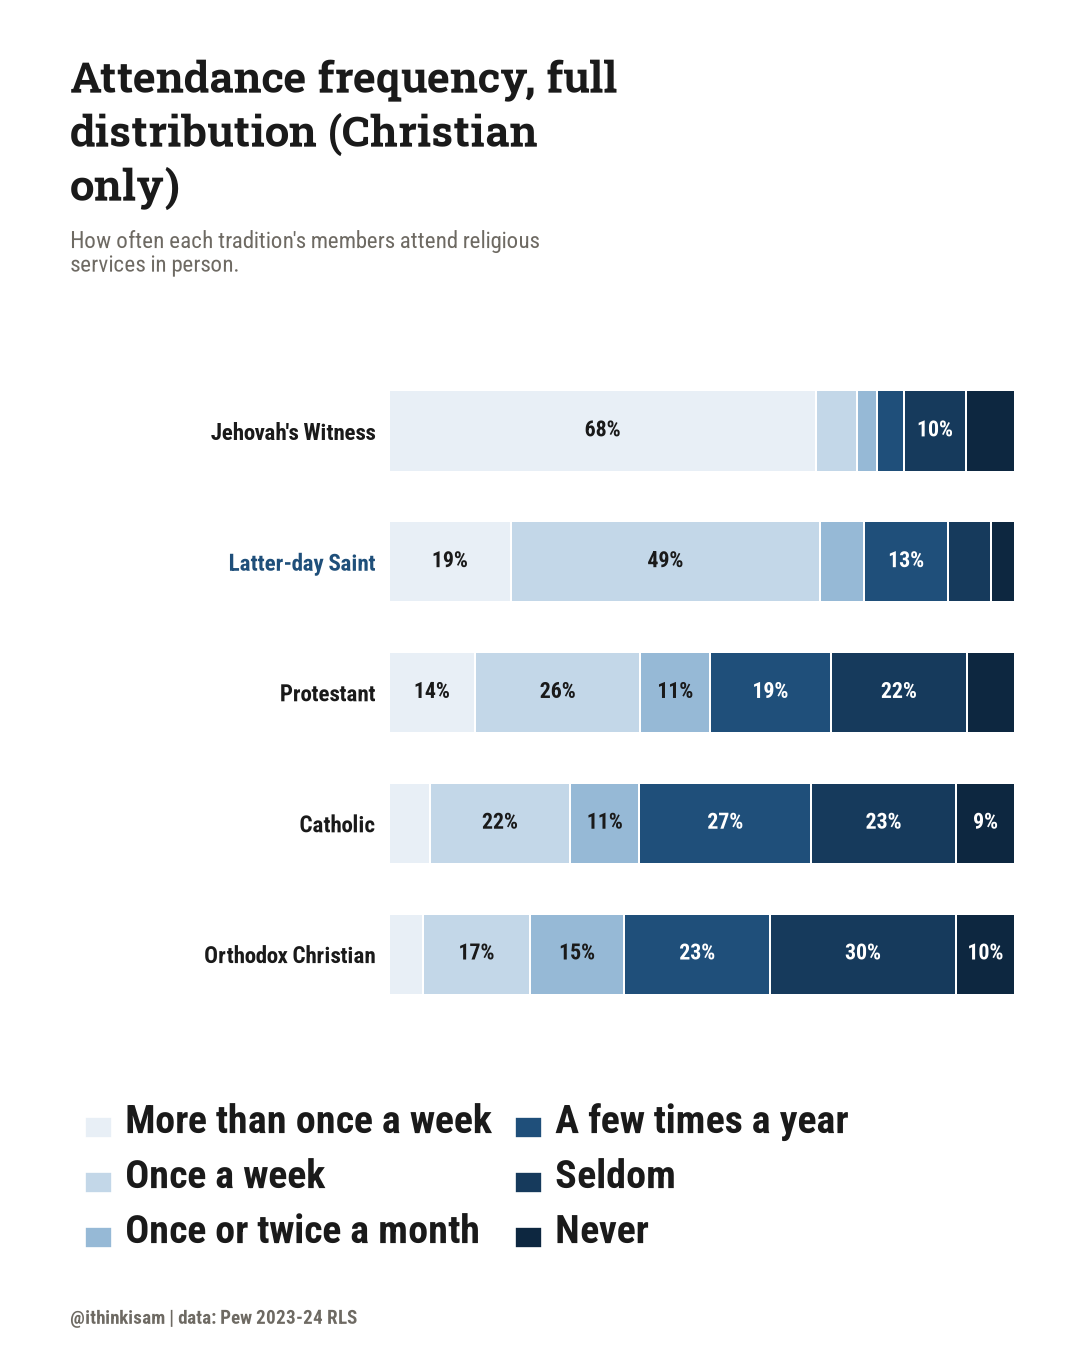
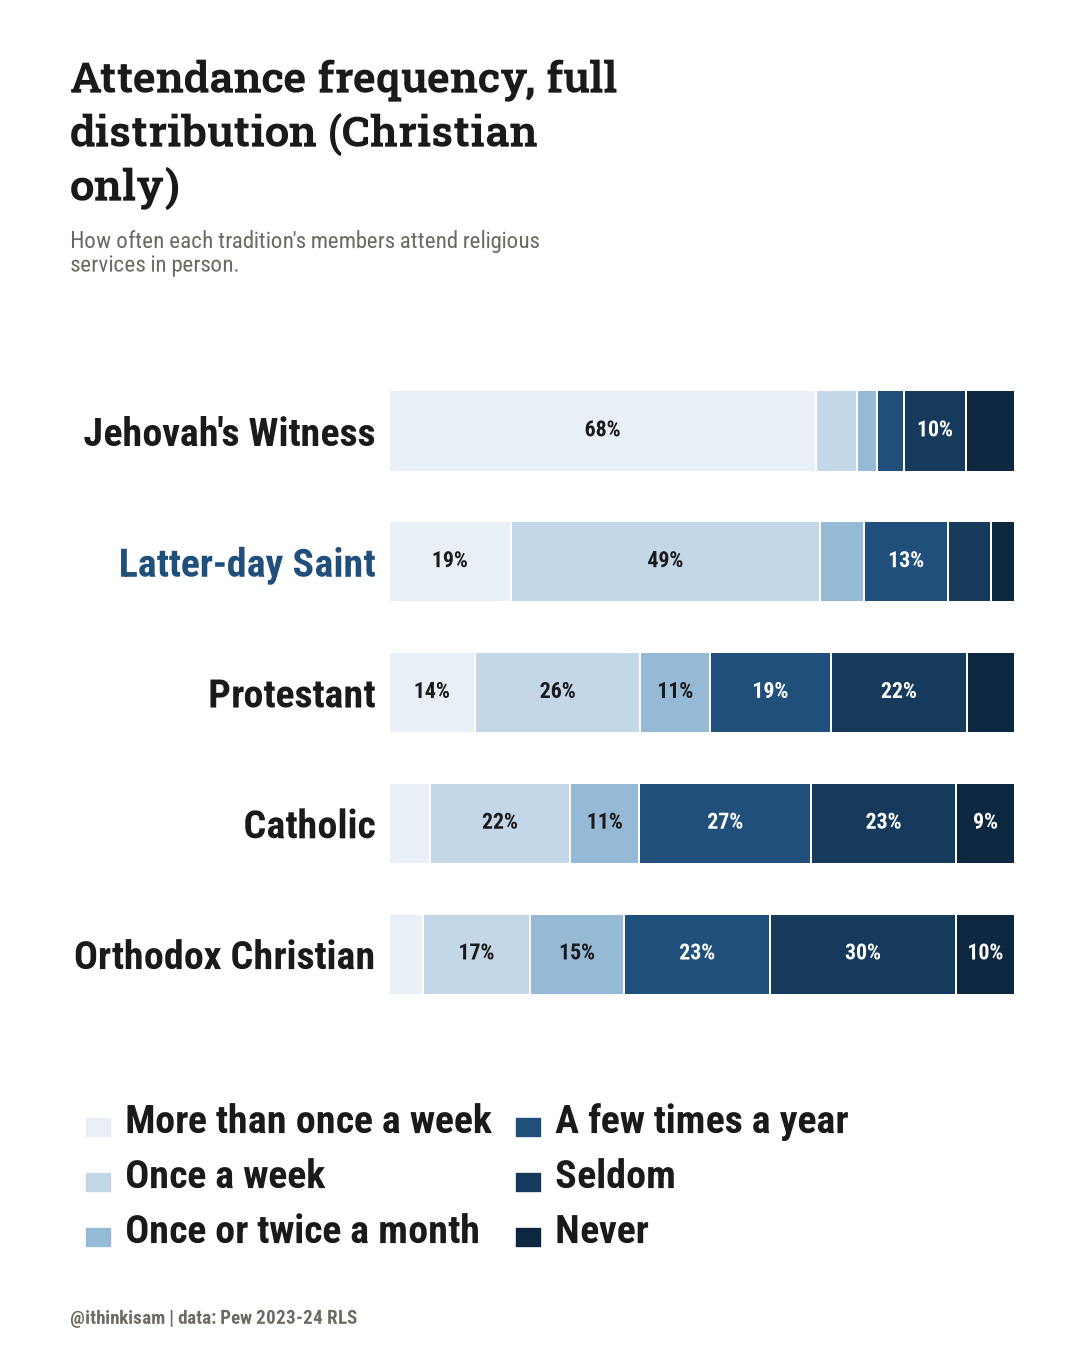
Match group-label size to the legend key on the attendance distribution chart
render_distribution_stack gets an optional group_label_fontsize override
(defaults to the existing behavior everywhere else); wired it in for just
"Attendance frequency, full distribution (Christian only)" per request, to
try it on one chart before applying more broadly.

diff --git a/scripts/pew-rls/render_practice_charts.py b/scripts/pew-rls/render_practice_charts.py
@@ -178,6 +178,7 @@ def render_magnitude_bar(
 def render_distribution_stack(
     results: dict, group_order: list[str], seg_order: list[str], title: str, subtitle: str,
     note: str, total_n: int, out_path: Path, fonts: dict[str, fm.FontProperties],
+    group_label_fontsize: float | None = None,
 ) -> None:
     fig = plt.figure(figsize=(FIG_W_IN, FIG_H_IN), dpi=DPI)
     fig.patch.set_facecolor(PAPER)
@@ -228,9 +229,11 @@ def render_distribution_stack(
 
     ax.set_xlim(0, 100)
     ax.margins(y=0.06 if n_rows > 8 else 0.11)
+    resolved_label_fontsize = group_label_fontsize if group_label_fontsize is not None \
+        else (MIN.AXIS_LABEL if n_rows > 8 else 14)
     for tick_label, g in zip(ax.get_yticklabels(), rows):
         tick_label.set_fontproperties(fonts["bold"])
-        tick_label.set_fontsize(MIN.AXIS_LABEL if n_rows > 8 else 14)
+        tick_label.set_fontsize(resolved_label_fontsize)
         tick_label.set_color(ACCENT if g == HIGHLIGHT_GROUP else INK)
 
     handles = [mpatches.Patch(facecolor=c, edgecolor=PAPER, label=l)

diff --git a/scripts/pew-rls/render_christian_only_variants.py b/scripts/pew-rls/render_christian_only_variants.py
@@ -68,6 +68,10 @@ def main() -> None:
         subtitle="How often each tradition's members attend religious\nservices in person.",
         note=CHRISTIAN_NOTE, total_n=total_n,
         out_path=OUT_DIR / "practice-attend-distribution-christian.png", fonts=fonts,
+        # Requested: group (y-axis) labels the same size as the legend key,
+        # rather than this shape's usual smaller axis-label size - trying it
+        # on this one chart first before rolling it out further.
+        group_label_fontsize=practice_r.MIN.LEGEND,
     )
     practice_r.render_magnitude_bar(
         practice["attend_monthly_plus_either"], NARROW_ORDER,
